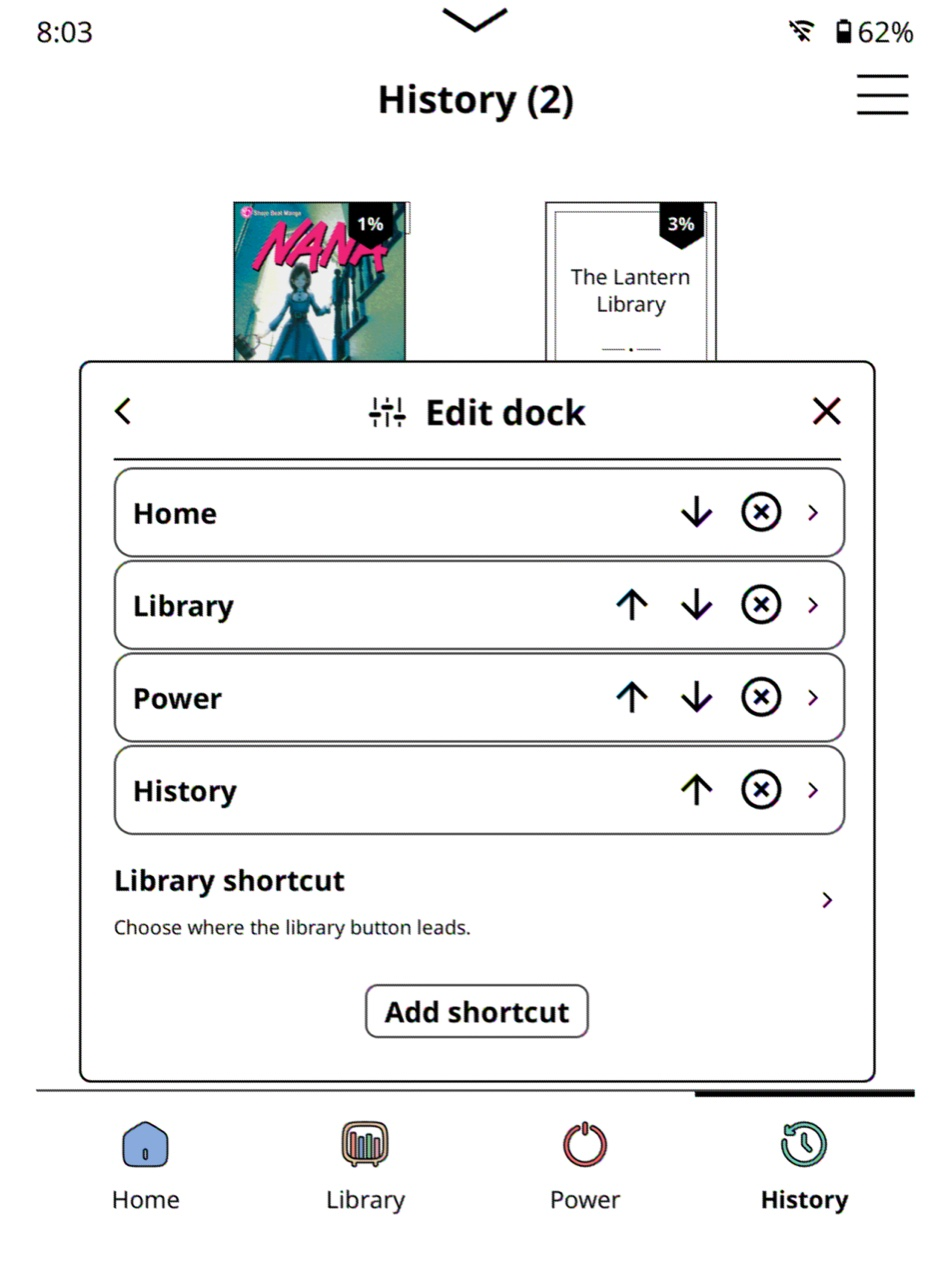
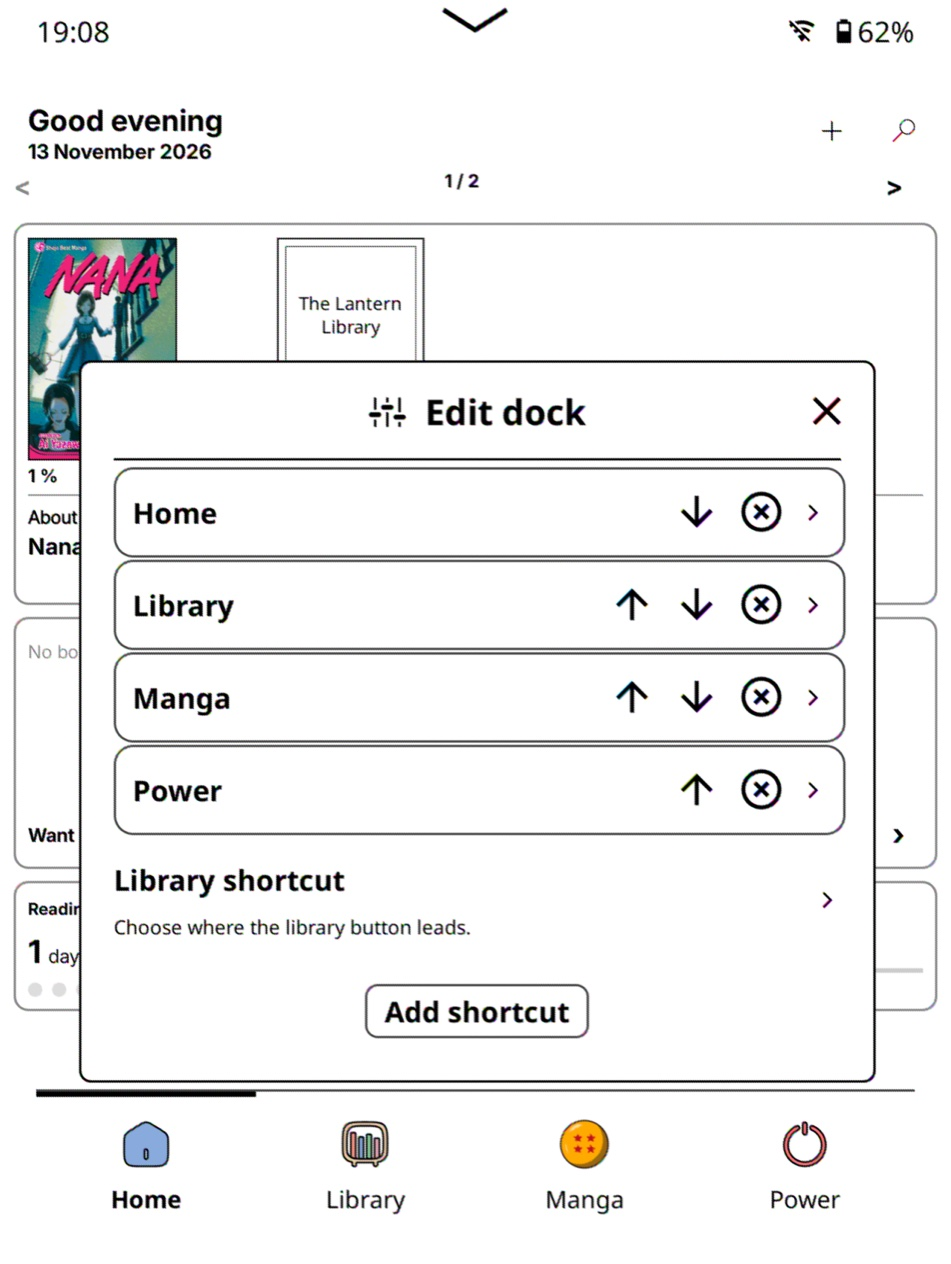
Record stable 1.3.0 verification and refresh screenshots

diff --git a/docs/PROJECT_CONTEXT.md b/docs/PROJECT_CONTEXT.md
@@ -22,25 +22,25 @@ and correct this file in the same change.
 
 ## Snapshot: 2026-11-13
 
-### Navigation in 1.3.0-beta.1
+### Navigation in 1.3.0
 
-The preview channel offers **1.3.0-beta.1** from **98d5e3654**, with the
-OrbitUI tab in KOReader’s
-top menu. Its settings routes use Home for the dashboard and cards, Library
+GitHub Latest and both updater channels offer stable **1.3.0** from
+**23714b0e**. The OrbitUI tab follows Quick Actions in KOReader’s top menu.
+Its settings routes use Home for the dashboard and cards, Library
 for shelves and library appearance, and Dock & interface for shortcuts and
 shared chrome. The file browser has its own appearance route. A long press on
 a dock item opens shortcut actions. The dock editor also reorders items and
 offers shortcuts to profiles, folders, collections and registered actions.
 Fresh setup uses Home, Library, History and Power. Saved docks are preserved.
-The Bigme is running USB-tested candidate `62086fa9d` in private slot
-`7a7ee33d`, with `aa1a078a` retained for rollback. The OrbitUI tab follows
-Quick Actions. The original Swedish dock is restored. See TESTING for the
-exact runtimes and device checks.
+The stable runtime code matches beta.1 and the USB-tested candidate
+`62086fa9d` in private slot `7a7ee33d`. The Bigme was last verified on that
+private build, with `aa1a078a` retained for rollback and its original Swedish
+dock restored. See TESTING for device checks and OTA for publication details.
 
-- **Current stable release 1.2.0.** Published 2026-11-12 at 12:43:24 UTC,
+- **Previous stable release 1.2.0.** Published 2026-11-12 at 12:43:24 UTC,
   release **442933886**, frozen source **5f1275918**, public ZIP **c68b6e56**.
-  The stable channel offers 1.2.0. Public upgrades and recovery passed
-  from 1.1.0, beta.3 and beta.4. The README shows eight English screenshots
+  Public upgrades and recovery passed from 1.1.0, beta.3 and beta.4.
+  The release added eight English screenshots to the README,
   captured from the Bigme. The private stable test used slot **41c6466b**.
   See OTA and TESTING.
 

diff --git a/docs/OTA.md b/docs/OTA.md
@@ -1,5 +1,25 @@
 # OrbitUI releases and OTA
 
+## OrbitUI 1.3.0
+
+Published **2026-11-13 19:00:45 UTC**, release **444620274**, frozen
+source/tag **23714b0e / v1.3.0**. Public ZIP SHA-256
[1 lines of base64/hex data omitted]
+9,887,891 bytes and 2,000 installed files. GitHub Latest and both OrbitUI
+channels offer 1.3.0. The public ZIP and checksum match the verified draft.
+
+The stable release uses the same code as beta.1 and the USB-tested Bigme
+build. The OrbitUI tab sits beside Quick Actions. Long-press a dock shortcut
+to add, replace or remove it. Fresh setups use Home, Library, History and
+Power. Saved docks keep their shortcuts. The English screenshots on the
+repository homepage show the menu and dock editor captured from 1.3.0 in
+the Kobo emulator.
+
+Both complete Lua suites, 129 sealed root suites per interpreter and all
+43 translation catalogs passed. Native installer checks covered 1.2.0
+and 1.3.0-beta.1 upgrades, restart and rollback. Package, installer and
+device evidence is under `test-results/stable13-20261113/`.
+
 ## OrbitUI 1.3.0-beta.1
 
 Published **2026-11-13 11:55:41 UTC**, release **444170827**, frozen

diff --git a/docs/TESTING.md b/docs/TESTING.md
@@ -1,5 +1,13 @@
 # Verification and device acceptance
 
+## 2026-11-13 — OrbitUI 1.3.0 promotion
+
+The executable files and runtime assets match the published beta.1 and
+the USB-tested Bigme package below. The stable ZIP also opened the second
+top-menu tab and the dock editor on the emulated Kobo. No fresh physical
+installation was exercised for the promotion. See OTA for exact versions,
+hashes and installer coverage.
+
 ## 2026-11-13 — Unified settings and dock on Bigme
 
 The USB test finished on local candidate `2dd2ab286`, ZIP SHA-256
